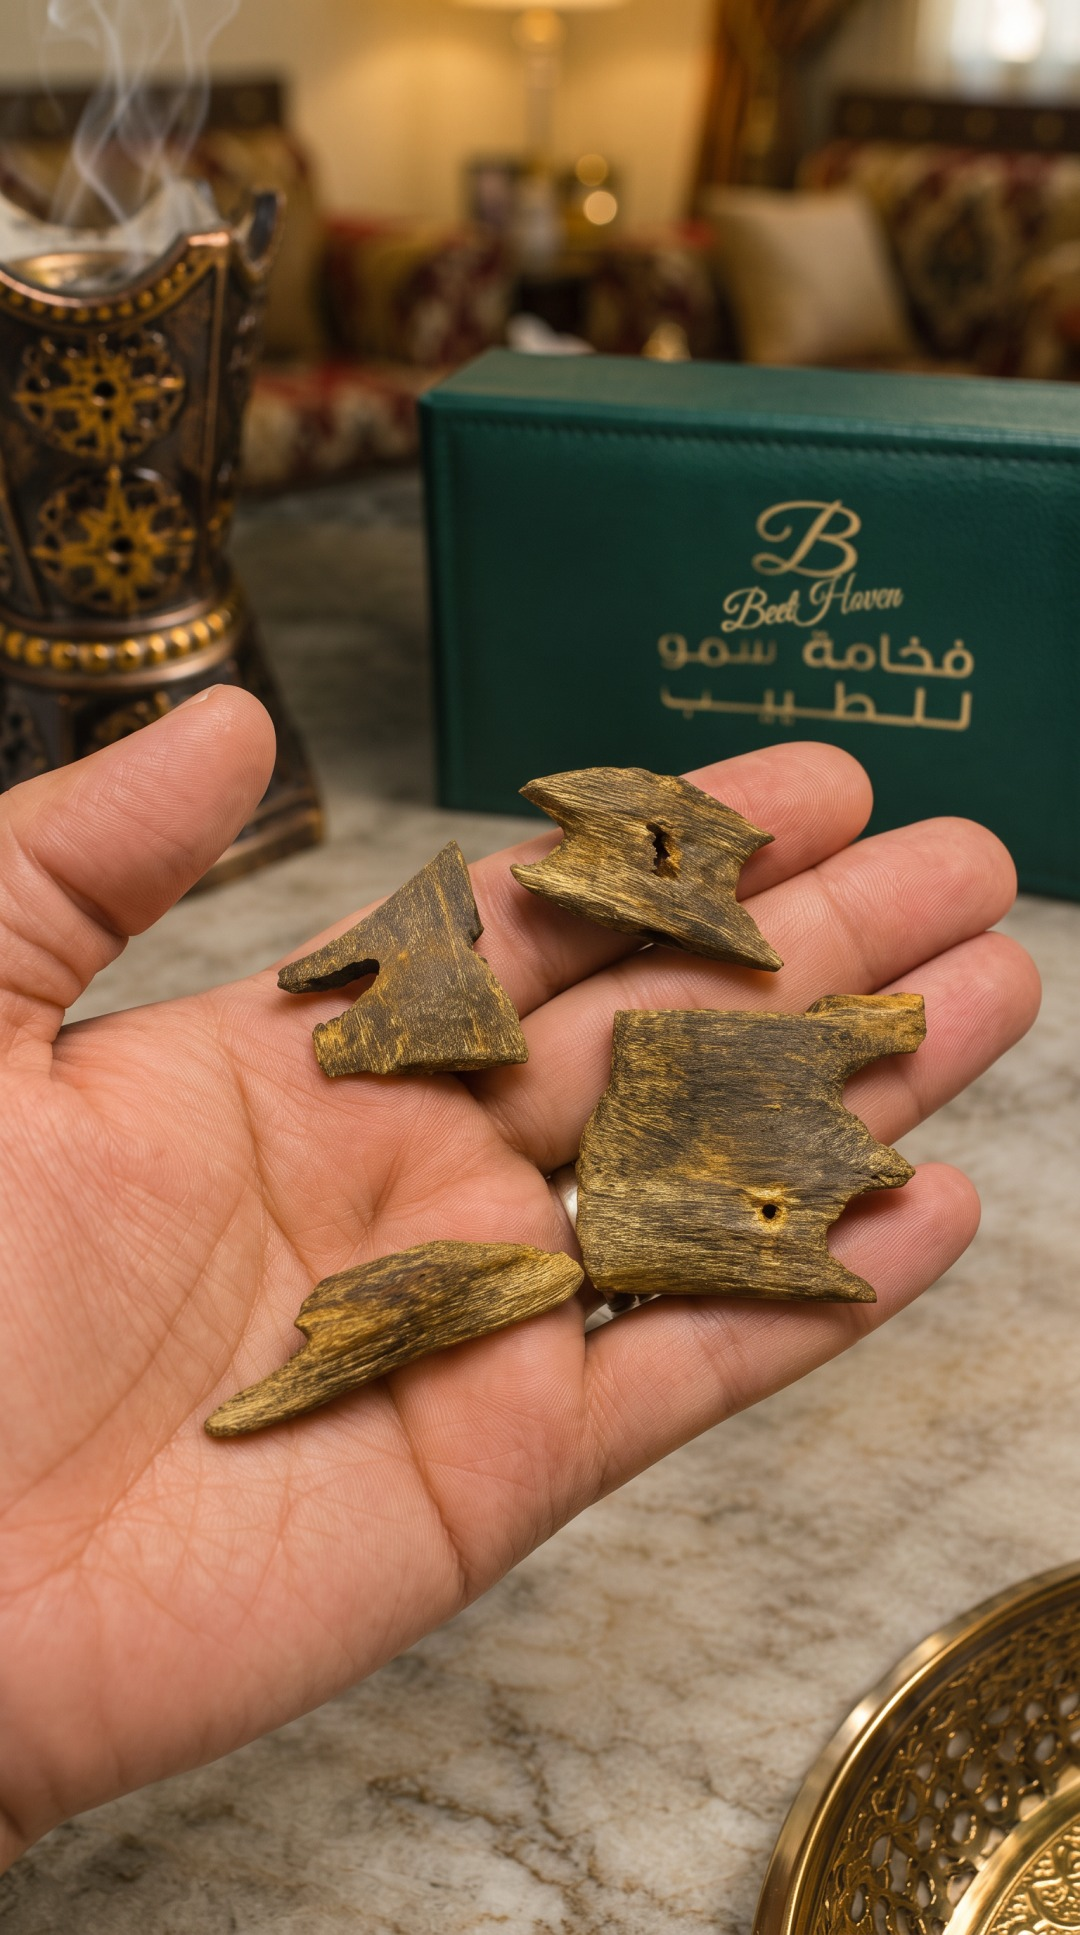
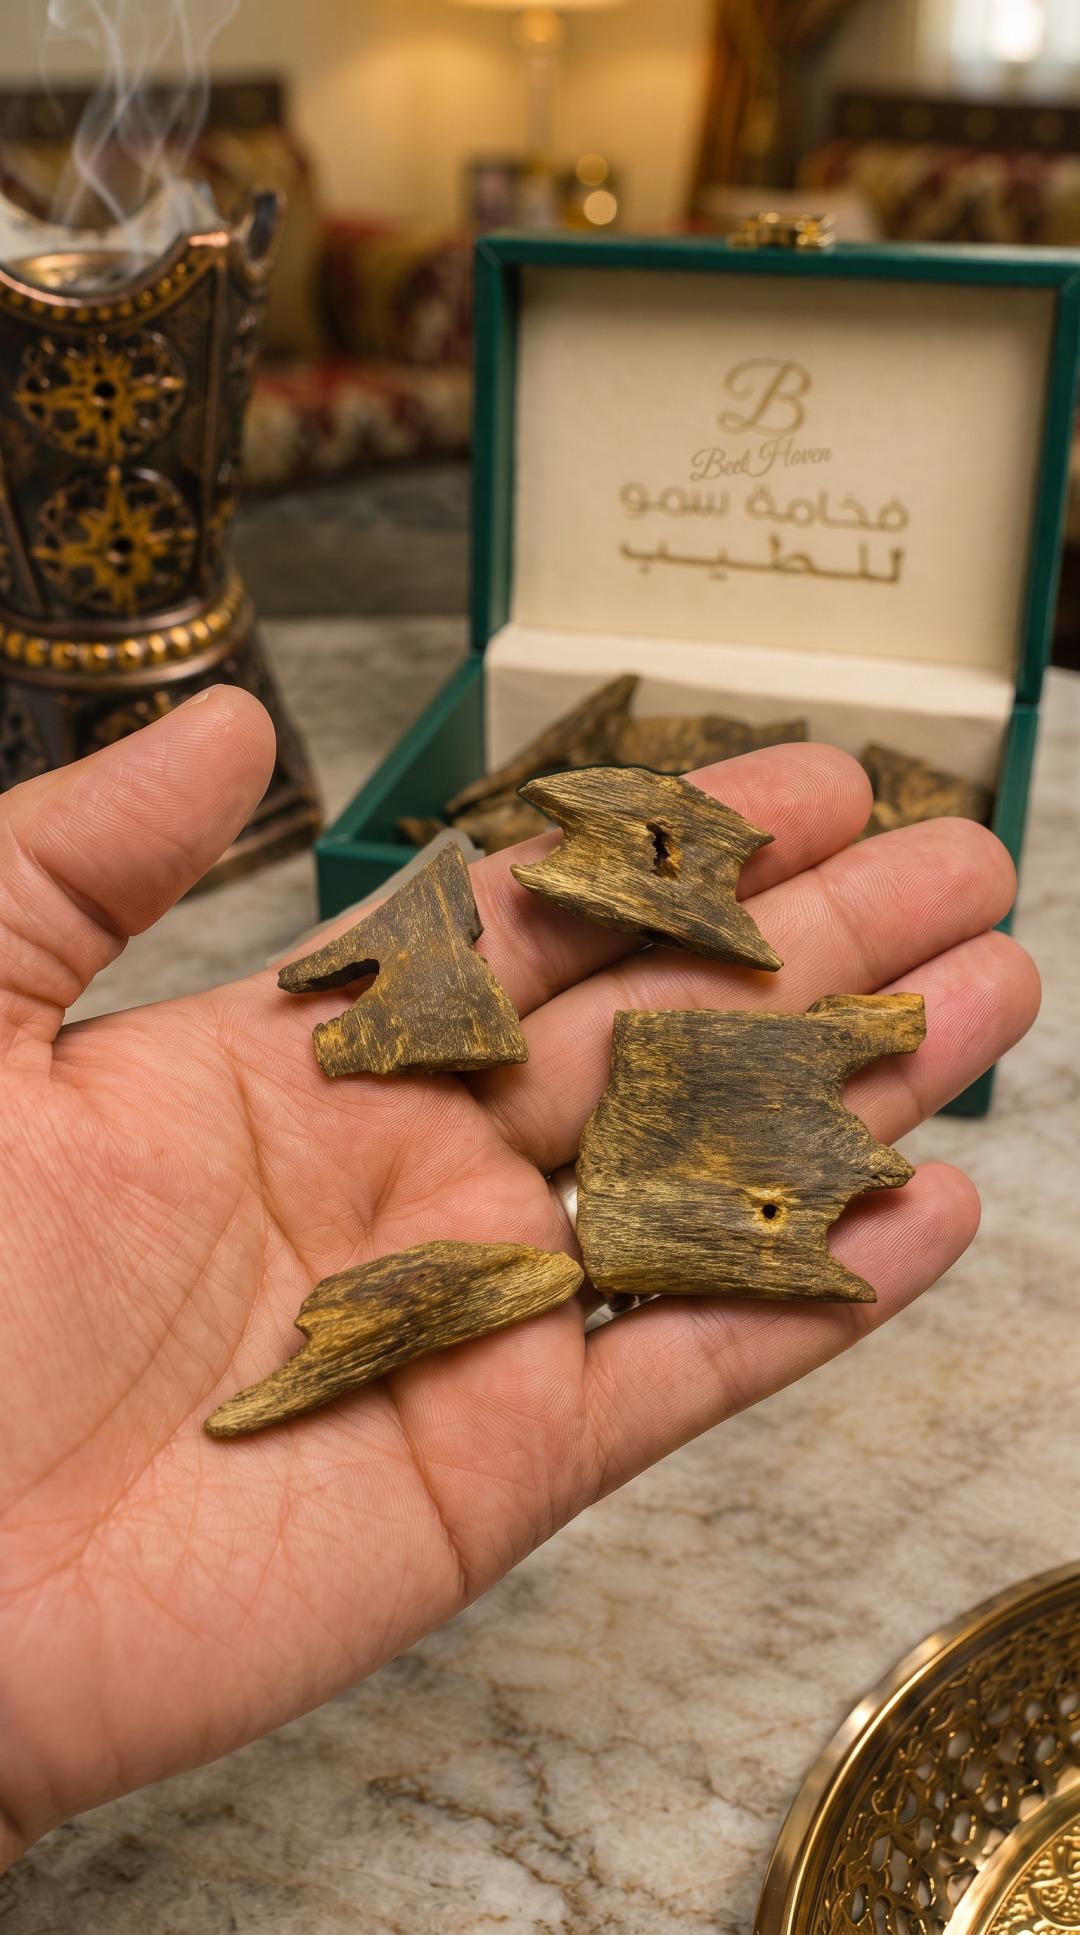
Kinam S01 v2: real open box behind the hand, real pieces pasted back, BeetHoven on cream lid
Claude-Session: https://claude.ai/code/session_01TQdgL8psWQ5B4XyTxv2k9v

diff --git a/kinam/edit/fix_s01b.py b/kinam/edit/fix_s01b.py
@@ -1,0 +1,24 @@
+"""Kinam S01 v2 (real open box behind hand): real pieces pasted back (done -> s01b_pieces.png), lid word -> BeetHoven on cream. Free, local."""
+import cv2, numpy as np, sys
+K = '/home/user/canva21/kinam/'; S = '/tmp/claude-0/-home-user-canva21/d92bd60e-9f87-52c3-ac35-11b21dbe0949/scratchpad/'
+def word_from(path, x0, y0, x1, y1):
+    im = cv2.imread(path); R = im[y0:y1, x0:x1].astype(np.float32)
+    bg = cv2.medianBlur(im[y0 - 40:y1 + 40, x0 - 40:x1 + 40], 41)[40:-40, 40:-40].astype(np.float32)
+    d = (bg - R).mean(2); a = np.clip((d - 6) / (np.percentile(d, 99.5) - 6), 0, 1)
+    ys, xs = np.where(a > 0.15); return a[ys.min():ys.max() + 1, xs.min():xs.max() + 1]
+BH = word_from('/home/user/canva21/reel03/images/p02_close_raw.png', 478, 1403, 662, 1468)
+im = cv2.imread(K + 'images/s01b_pieces.png')
+x0, y0, x1, y1 = [int(v) for v in sys.argv[1:5]]; blur = float(sys.argv[5]); dark = float(sys.argv[6])
+R = im[y1 + 8:y1 + 70, x0 - 40:x1 + 60].astype(np.float32); L = R.mean(2); gold = np.median(R[L < np.percentile(L, 4)], 0) * dark   # gold of the Arabic line below
+m = np.zeros(im.shape[:2], np.uint8); m[y0:y1, x0:x1] = 255
+out = cv2.inpaint(im, m, 15, cv2.INPAINT_TELEA).astype(np.float32)
+sm = cv2.GaussianBlur(out[y0 - 6:y1 + 6, x0 - 6:x1 + 6], (0, 0), 6); out[y0:y1, x0:x1] = sm[6:-6, 6:-6]
+out += np.random.default_rng(1).normal(0, 1.0, out.shape).astype(np.float32) * (m[..., None] > 0)
+W = int((x1 - x0) * 0.98); a = cv2.resize(BH, (W, int(W * BH.shape[0] / BH.shape[1])), interpolation=cv2.INTER_AREA)
+h, w = a.shape; cx, cy = (x0 + x1) / 2, (y0 + y1) / 2
+A = np.zeros(im.shape[:2], np.float32); ys, xs = int(cy - h / 2), int(cx - w / 2); A[ys:ys + h, xs:xs + w] = a
+A = cv2.dilate(A, cv2.getStructuringElement(cv2.MORPH_ELLIPSE, (3, 3))); A = np.clip(cv2.GaussianBlur(A, (0, 0), blur) * 1.2, 0, 1)
+f = out * (1 - A[..., None]) + gold * A[..., None]; f = np.clip(f, 0, 255).astype(np.uint8)
+cv2.imwrite(K + 'images/s01_hand_final.png', f)
+cv2.imwrite(S + 'lid_fix.jpg', np.vstack([im[y0 - 160:y1 + 160, x0 - 250:x1 + 250], f[y0 - 160:y1 + 160, x0 - 250:x1 + 250]]))
+print('gold', gold, w, h)
